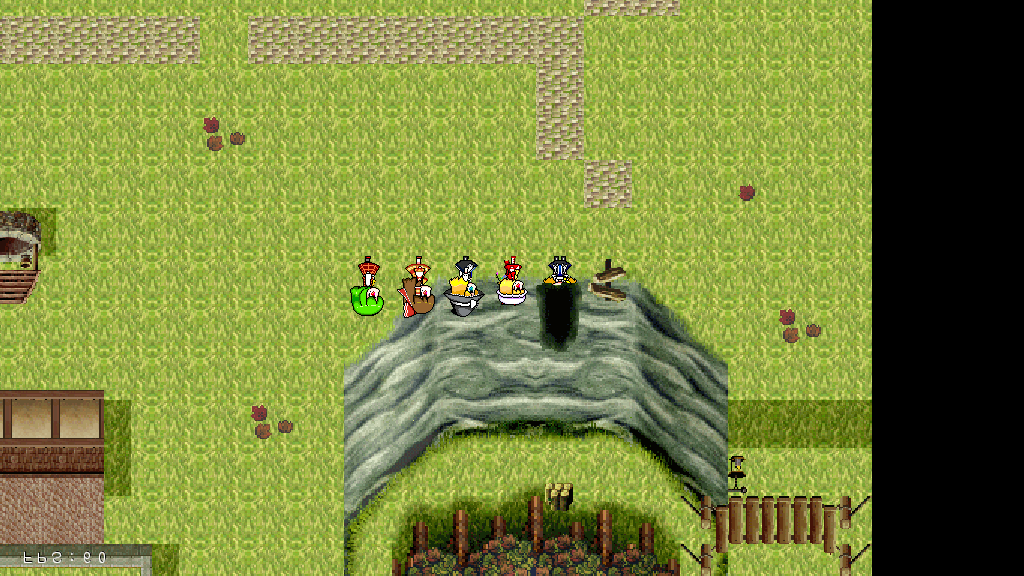
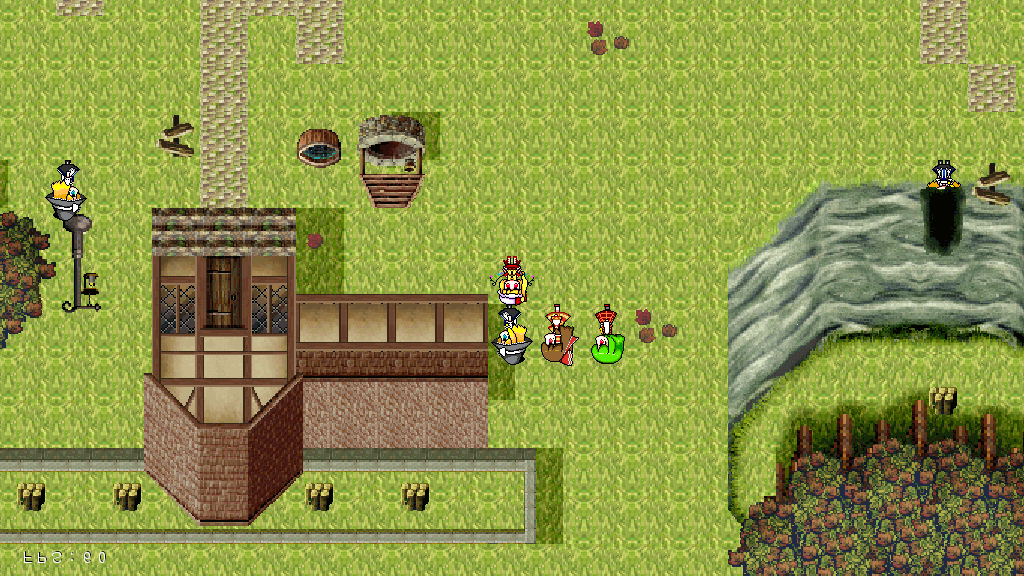
gitignore...

diff --git a/src/com/rpsg/rpg/game/object/FOONPC.java b/src/com/rpsg/rpg/game/object/FOONPC.java
@@ -15,8 +15,7 @@ public class FOONPC extends DefaultNPC{
 
 	public void init() {
 		this.waitWhenCollide=false;
-		this.walkSpeed=10f;
-		this.
+		this.walkSpeed=1f;
 		scripts.put(DefaultNPC.AUTO_SCRIPT, Walker.class);
 		scripts.put(DefaultNPC.COLLIDE_NAME_Z, SayHelloWorld.class);
 	}

diff --git a/src/com/rpsg/rpg/game/script/Walker.java b/src/com/rpsg/rpg/game/script/Walker.java
@@ -8,7 +8,7 @@ public class Walker extends Script{
 
 	public void init() {
 //		randomWalk(new Vector2(3,3));
-		randomWalkByHero(10,3);
+		randomWalkByHero(60,3);
 //		randomWalkBySelf(60, 3);
 	}
 
